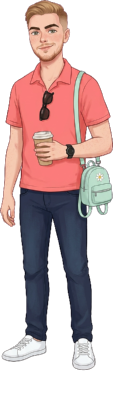
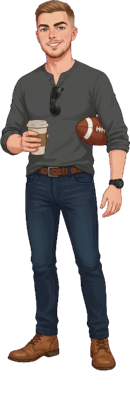
Cool Dad v2: charcoal henley, boots and a football instead of the polo and bag
The first roll's coral polo and tiny mint backpack read feminine to the owner.
Same face, same pipeline, same likeness photos (still not in the repo): a
fitted charcoal henley with the sleeves pushed up, dark jeans, tan boots,
aviators hooked in the collar, a coffee, and a kid-size football tucked under
the other arm. The manifest's note records why.

Claude-Session: https://claude.ai/code/session_018BNyrjzqrQYHhbKZMRCXUw

diff --git a/src/data/avatar.ts b/src/data/avatar.ts
@@ -611,8 +611,8 @@ export const FULL_SKINS: SkinDef[] = [
   },
   {
     id: 'cooldad',
-    // The app's owner, drawn as a character — coral polo, shades on the
-    // collar, a coffee and a tiny mint backpack on the other shoulder. The same
+    // The app's owner, drawn as a character — charcoal henley, aviators on the
+    // collar, a coffee and a kid-size football under the other arm. The same
     // shape as the creator-collab skins: 'paid' + exclusive so it rides the
     // owned_skins entitlement (protected in 0107), granted by code or by
     // grant_skins(), never sold. 'cooldad' is the entitlement key; keep it.
@@ -620,7 +620,7 @@ export const FULL_SKINS: SkinDef[] = [
     source: 'paid',
     exclusive: true,
     packName: 'Cool Dad',
-    blurb: 'Coffee in one hand, the little one\u2019s backpack on the other shoulder. Redeem the code to wear it.',
+    blurb: 'Coffee in one hand, the little one\u2019s football under the other arm. Redeem the code to wear it.',
   },
 ]
 
